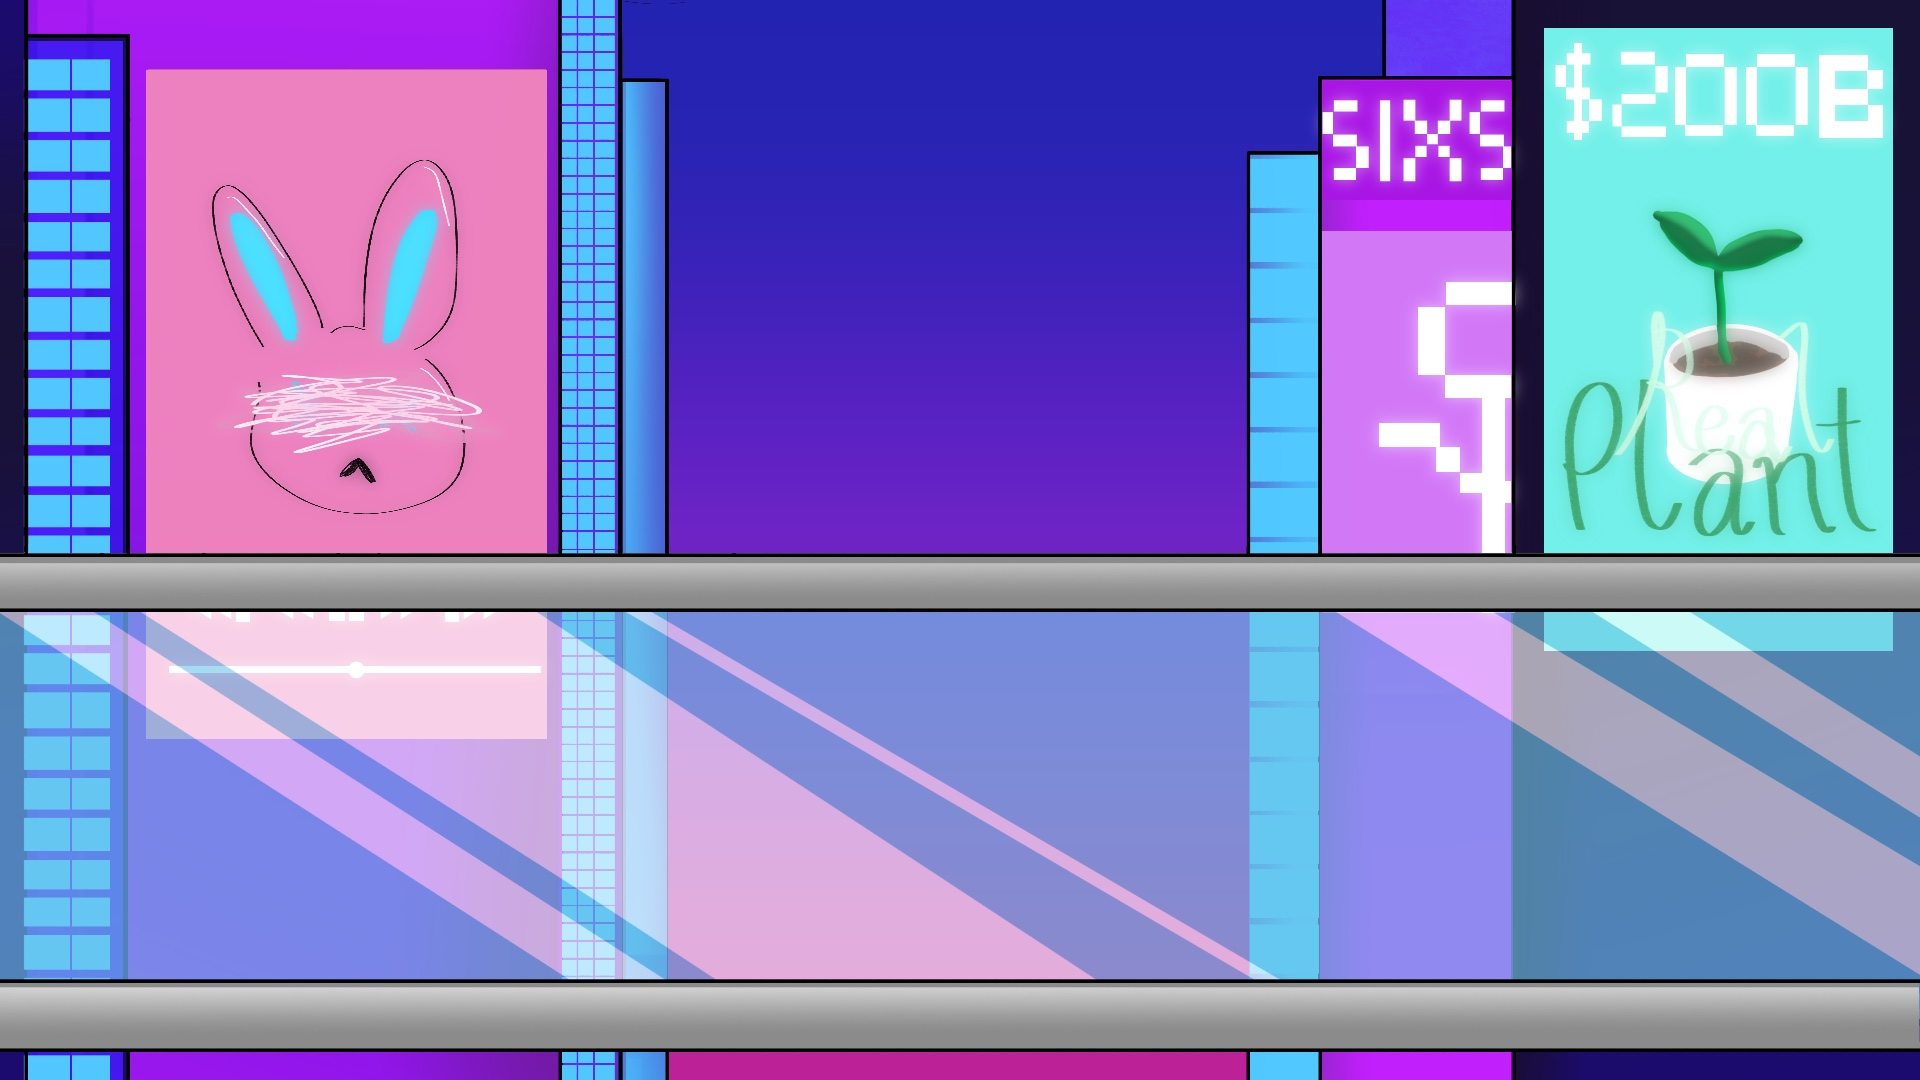
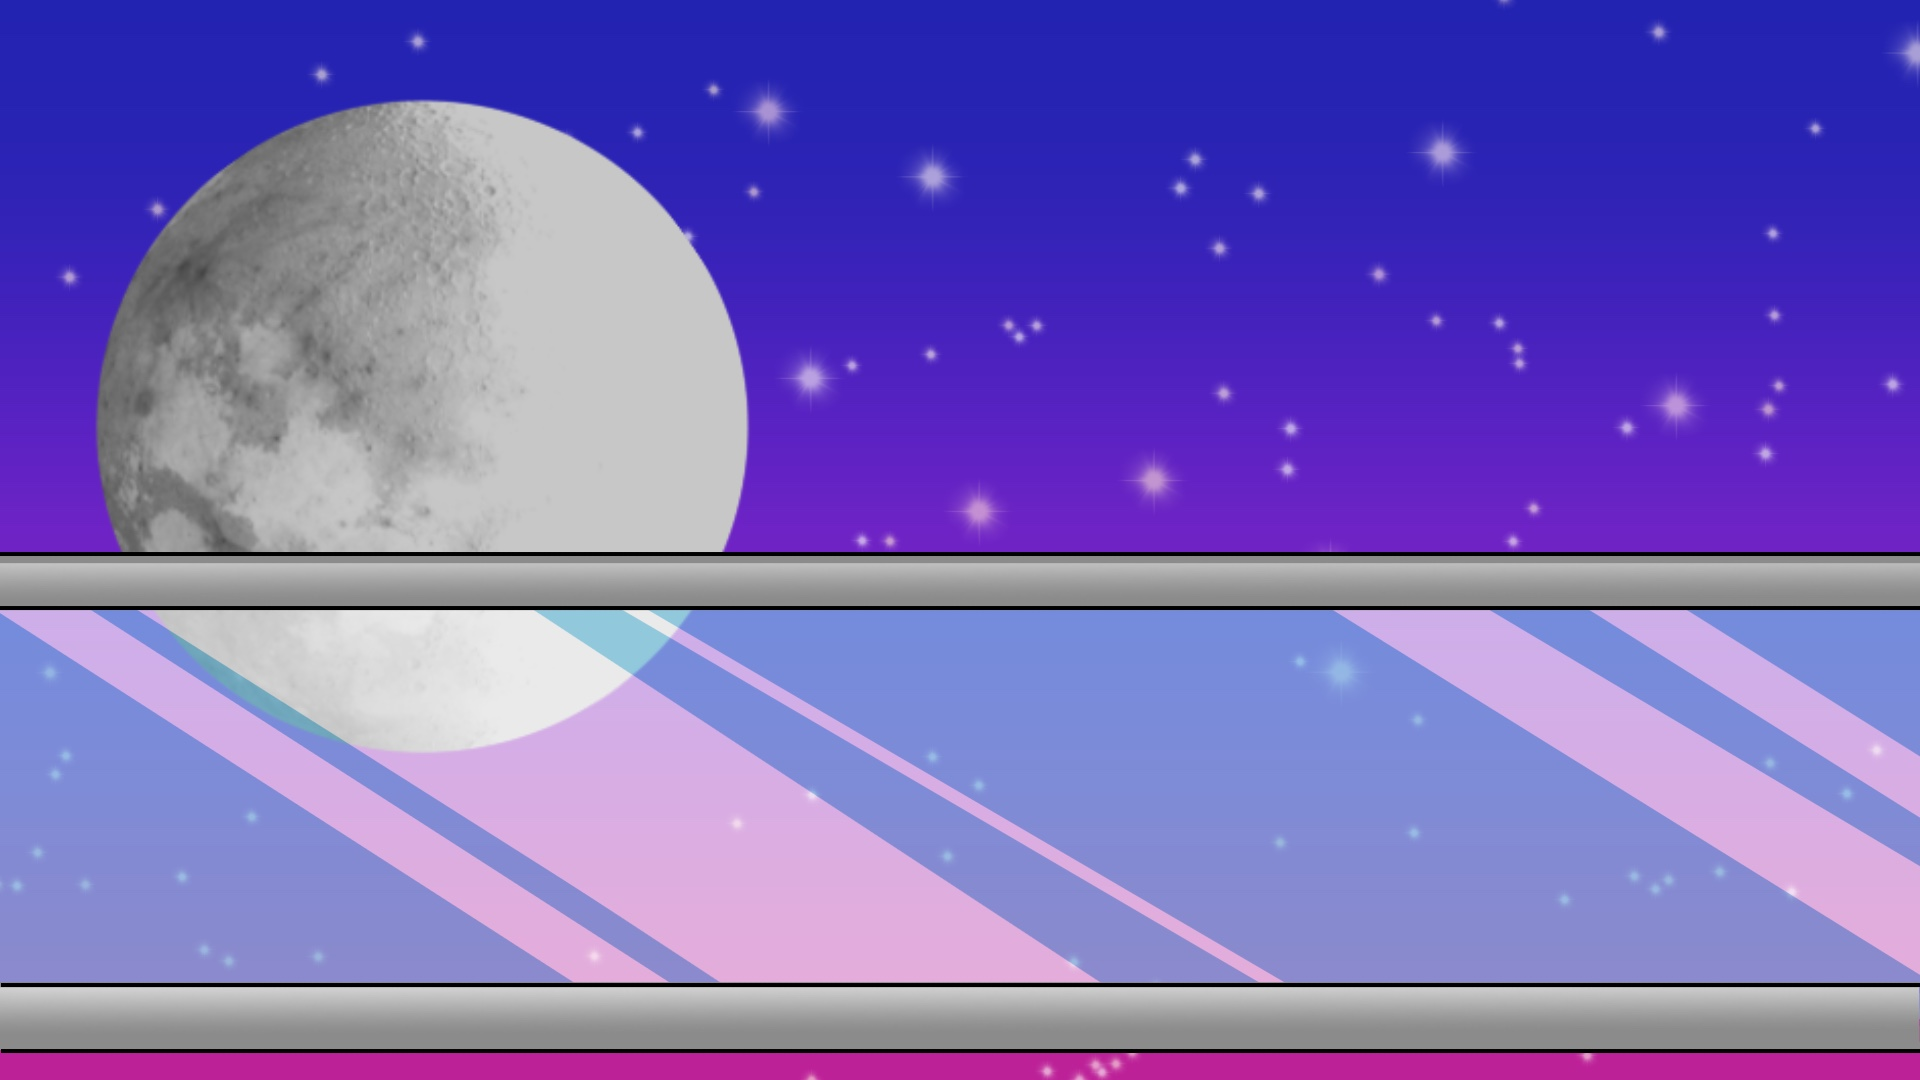
feat: add Werewolf human art, Ogre art and updated room backgrounds
Rename Warewolf to Werewolf; its two forms swap art instead of tinting. Floor 2 lanterns flicker now and then, and floor 3 rooms pick one of three backgrounds.

diff --git a/KEYWORDS.md b/KEYWORDS.md
@@ -65,7 +65,7 @@ The last sections, "Decided" and "Open", are not from the sheet. They say how th
 | Rune Armor / Bone Armor / Armor Plating / Absolute Terror Field | The enemy has its own Block, which damage must wear down before HP goes down. It recharges on the stated cycle. | Magic Golem, Skeleton, Mech Walker, Ramiel |
 | Rise | Revives once after dying, with the stated HP. | Zombie |
 | Burning Head | If the player hits it with an Attack that meets the condition, the damage is reflected back. | Jack O Lantern |
-| Moon Phase | Switches between two modes every turn, each with different rules and actions. | Warewolf |
+| Moon Phase | Switches between two modes every turn, each with different rules and actions. | Werewolf |
 | Stitched | Starts with some Plate. | Frangenstein |
 | Phylactery | A separate object with its own HP. While it stands, the main body heals every turn. | Lich |
 | Multi-head | Several hits per turn. A head can be cut off by dealing enough damage in one turn. | Hydra |
